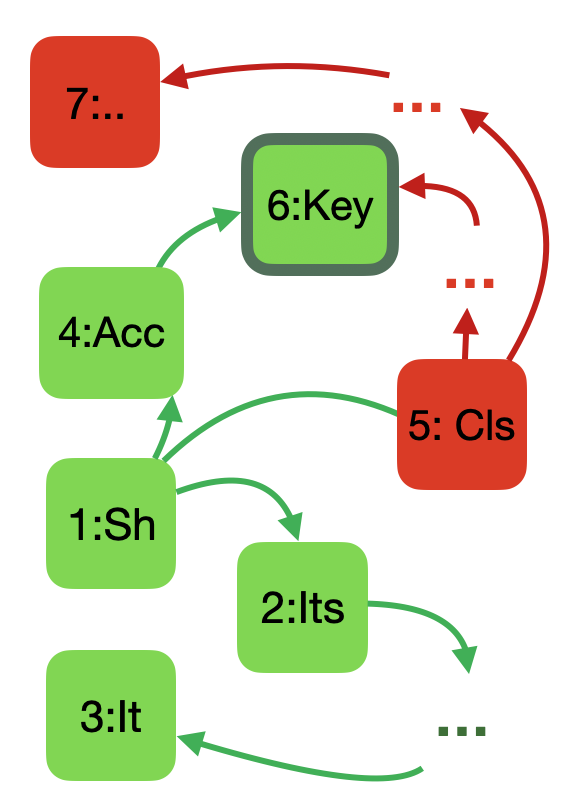
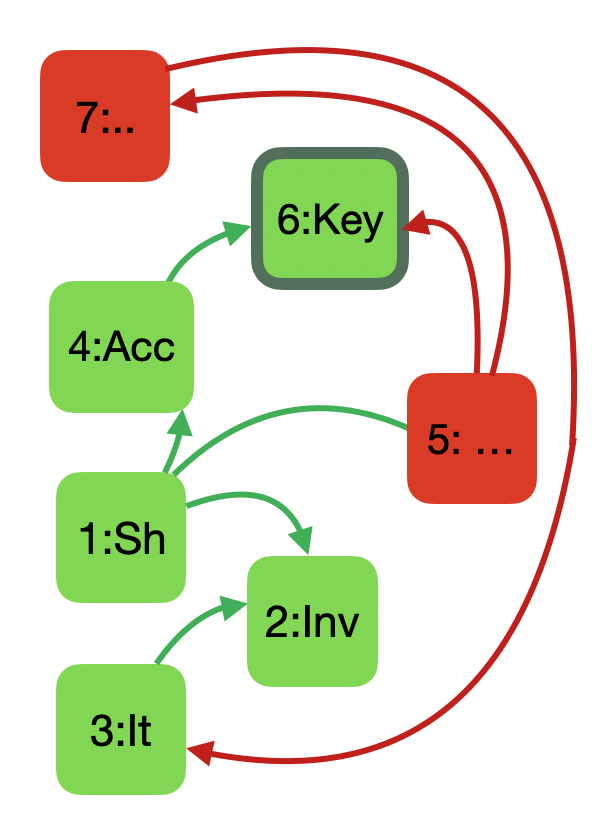
updating the iluustrations in sect 2

diff --git a/new_Directions/next_work/approach.tex b/new_Directions/next_work/approach.tex
@@ -80,8 +80,40 @@ module M$_{shop}$
 \end{lstlisting}
  
  
+\noindent
+\begin{flushleft}
+\begin{tabular}{@{}lll@{}}
+  \begin{minipage}{.65\textwidth}
 
-The critical point is the external call on line 8,   {where the \prg{Shop} asks the \prg{buyer} to pay the price of that item,
+We illustrate the situation through an example of a heap snippet. Red and green squares are external and internal objects, respectively. 
+Each object has a unique number, followed by an abbreviation of its class, \eg $o_1$ has class \prg{Shop}, $o_1$ has class \prg{Inventory}, while 
+$o_5$ and $o_7$ are external. 
+
+Curved arrows between objects indicate field values. For example, $o_1$ has three fields, pointing to 
+$o_4$, $o_5$ and $o_2$.
+
+Fields denote direct access. The transitive closure of direct access gives indirect (or transitive) access. Thus $o_1$ has direct access to $o_4$, and indirect access to $o_6$.
+
+Object $o_6$ is the key to the account $o_4$, and represents the capability that allows withdrawal. We highlight this through a dark outline to the object.
+
+
+\end{minipage}
+& \ \  \   &
+\begin{minipage}{.32\textwidth}
+%\begin{figure}
+% I wanrted a figure here, but it went soemwhere else
+\resizebox{3.2cm}{!}{
+\includegraphics[width=\linewidth]{diagrams/ShopA.png}
+} 
+%\caption{A Heap}
+%\label{f:heap}
+%\end{figure}
+\end{minipage}
+\end{tabular}
+\end{flushleft}
+
+
+The critical point in our code is the external call on line 8,   {where the \prg{Shop} asks the \prg{buyer} to pay the price of that item,
 by calling  \prg{pay} on \prg{buyer} and passing the \prg{Shop}'s account as an argument.
 % somebody had written " \prg{Shop}'s account" but SD thinks it has to be  \prg{Shop}'s account
 As \prg{buyer} is an external object, the module \Mshop has no method specification for \prg{pay}, and no 
@@ -150,7 +182,7 @@ This gives rise to the following three challenges:\  1$^{st}$:  A specification 
 %Does this make sense? Shall we drop that point?}
  
  
-\subsection{1$^{st}$ Question: Specification Language} 
+\subsection{1$^{st}$ Challenge: Specification Language} 
 
 We want to give a formal meaning to the guarantee that for some effect, $E$, and an object $o_c$ which is the capability for $E$:
 
@@ -255,32 +287,37 @@ More in Def. \ref{def:chainmail-protection-from} and Fig. \ref{fig:ProtectedBoth
 %\cf Fig. \ref{fig:ProtectedBoth}. %  object $o_7$ is not protected in the middle pane, but is protected in the right pane.
 
 
- 
 \begin{figure}[tbh]
-\begin{tabular}{|c|c|c|}
+\begin{tabular}{lc|c|c|c|}
 \hline
-\resizebox{3.5cm}{!}{
-\includegraphics[width=\linewidth]{diagrams/prfC.png}
+\resizebox{2.0cm}{!}{
+\includegraphics[width=\linewidth]{diagrams/ShopA.png}
 } 
 &
-\resizebox{4.5cm}{!}{
-\includegraphics[width=\linewidth]{diagrams/prtFirst.png}
+\resizebox{3,5cm}{!}{
+\includegraphics[width=\linewidth]{diagrams/ShopB.png}
+} 
+&
+\resizebox{3,5cm}{!}{
+\includegraphics[width=\linewidth]{diagrams/ShopC.png}
 }
 &
-\resizebox{4.5cm}{!}{
-\includegraphics[width=\linewidth]{diagrams/prtSecond.png}
+\resizebox{3.5cm}{!}{
+\includegraphics[width=\linewidth]{diagrams/ShopD.png}
 }
 \\
 \hline
-protected from object $o_2$
+heap $h$
 &
-protected  with current frame $\phi_1$
+$\sigma_1$, top frame $\phi_1$ % protected from object $o_2$
 &
-protected  with current frame $\phi_2$
+$\sigma_2$, top frame $\phi_1$
+&
+$\sigma_3$, top frame $\phi_3$
 \\
 \hline \hline
 \end{tabular}
-\caption{\textit{Protected from and Protected}. Pink and green squares are external and internal objects, respectively. Connecting straight arrows  indicate fields. Blue boxes are frames on the stack. Protected objects are  highlighted in yellow. 
+\caption{\textit{Protected from and Protected}. 
  The left pane shows a heap with objects $o_1$-$o_9$.
  Here  $o_1$, $o_4$, $o_5$ and $o_9$ 
 are protected from $o_2$. 
@@ -291,6 +328,43 @@ are protected from $o_2$.
 }
    \label{fig:ProtectedBoth}
  \end{figure}
+
+ 
+%\begin{figure}[tbh]
+%\begin{tabular}{|c|c|c|}
+%\hline
+%\resizebox{3.5cm}{!}{
+%\includegraphics[width=\linewidth]{diagrams/prfC.png}
+%} 
+%&
+%\resizebox{4.5cm}{!}{
+%\includegraphics[width=\linewidth]{diagrams/prtFirst.png}
+%}
+%&
+%\resizebox{4.5cm}{!}{
+%\includegraphics[width=\linewidth]{diagrams/prtSecond.png}
+%}
+%\\
+%\hline
+%protected from object $o_2$
+%&
+%protected  with current frame $\phi_1$
+%&
+%protected  with current frame $\phi_2$
+%\\
+%\hline \hline
+%\end{tabular}
+%\caption{\textit{Protected from and Protected}. Pink and green squares are external and internal objects, respectively. Connecting straight arrows  indicate fields. Blue boxes are frames on the stack. Protected objects are  highlighted in yellow. 
+% The left pane shows a heap with objects $o_1$-$o_9$.
+% Here  $o_1$, $o_4$, $o_5$ and $o_9$ 
+%are protected from $o_2$. 
+% The middle pane {shows the same heap and a stack with frame  $\phi_1$} whose receiver,   \prg{this},  points to $o_1$. Here 
+% $o_1$, $o_2$, $o_4$, $o_5$ and $o_9$  are protected. 
+% The right pane {shows the configuration after pushing frame  $\phi_2$}, whose receiver,  \prg{this},  and local variable, \prg{x}, point to $o_3$ and  $o_7$, respectively.
+% Here $o_3$ and $o_7$ are protected, in addition  to  the objects protected in the previous pane.
+%}
+%   \label{fig:ProtectedBoth}
+% \end{figure}
  
 If the  internal module  never passes $o$ to  external objects (\ie never leaks $o$) and  $o$ is protected, then $o$ will remain protected during execution of the current method and all the methods \emph{it} calls.
 However, it need not be protected during execution of the method calling the current method, nor after termination of the current method.   
@@ -496,7 +570,7 @@ module with  accounts which have a % {\textit{implementation}} of a bank account
 
 
   
-  \subsection{2$^{nd}$ Question:  A Hoare logic for adherence to specifications}  
+  \subsection{2$^{nd}$ Challenge:  A Hoare logic for adherence to specifications}  
  \label{sec:howSecond}
 
 Our scoped invariants require Hoare   quadruples, rather than the classical triples.
@@ -600,7 +674,7 @@ the    body of \prg{buy}.
  
  \vspace{.1cm}
  
-   \subsection{3$^{rd}$ Question:  A Hoare logic for external calls}  
+   \subsection{3$^{rd}$ Challenge:  A Hoare logic for external calls}  
  \label{sec:howThird}
  
 We consider  the  verification of $S_4$. 
